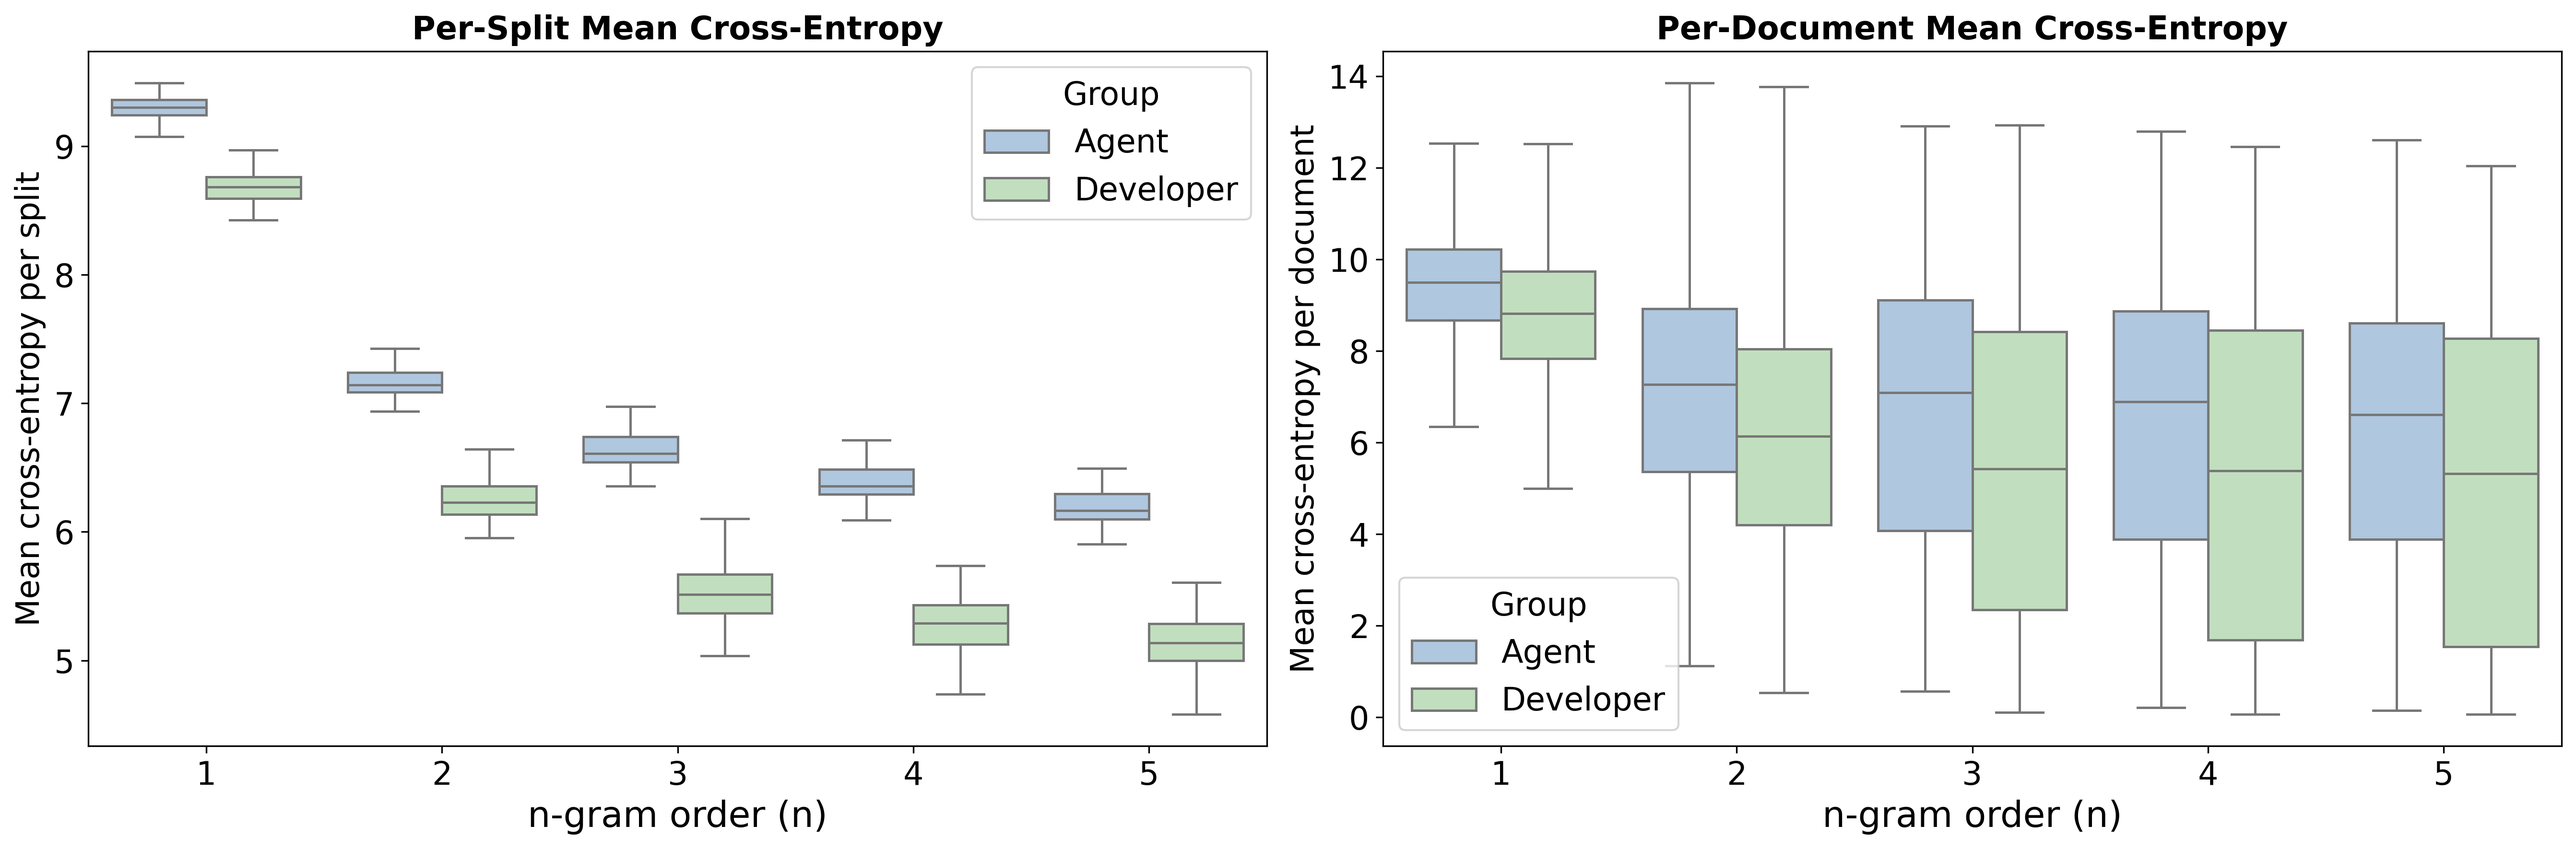
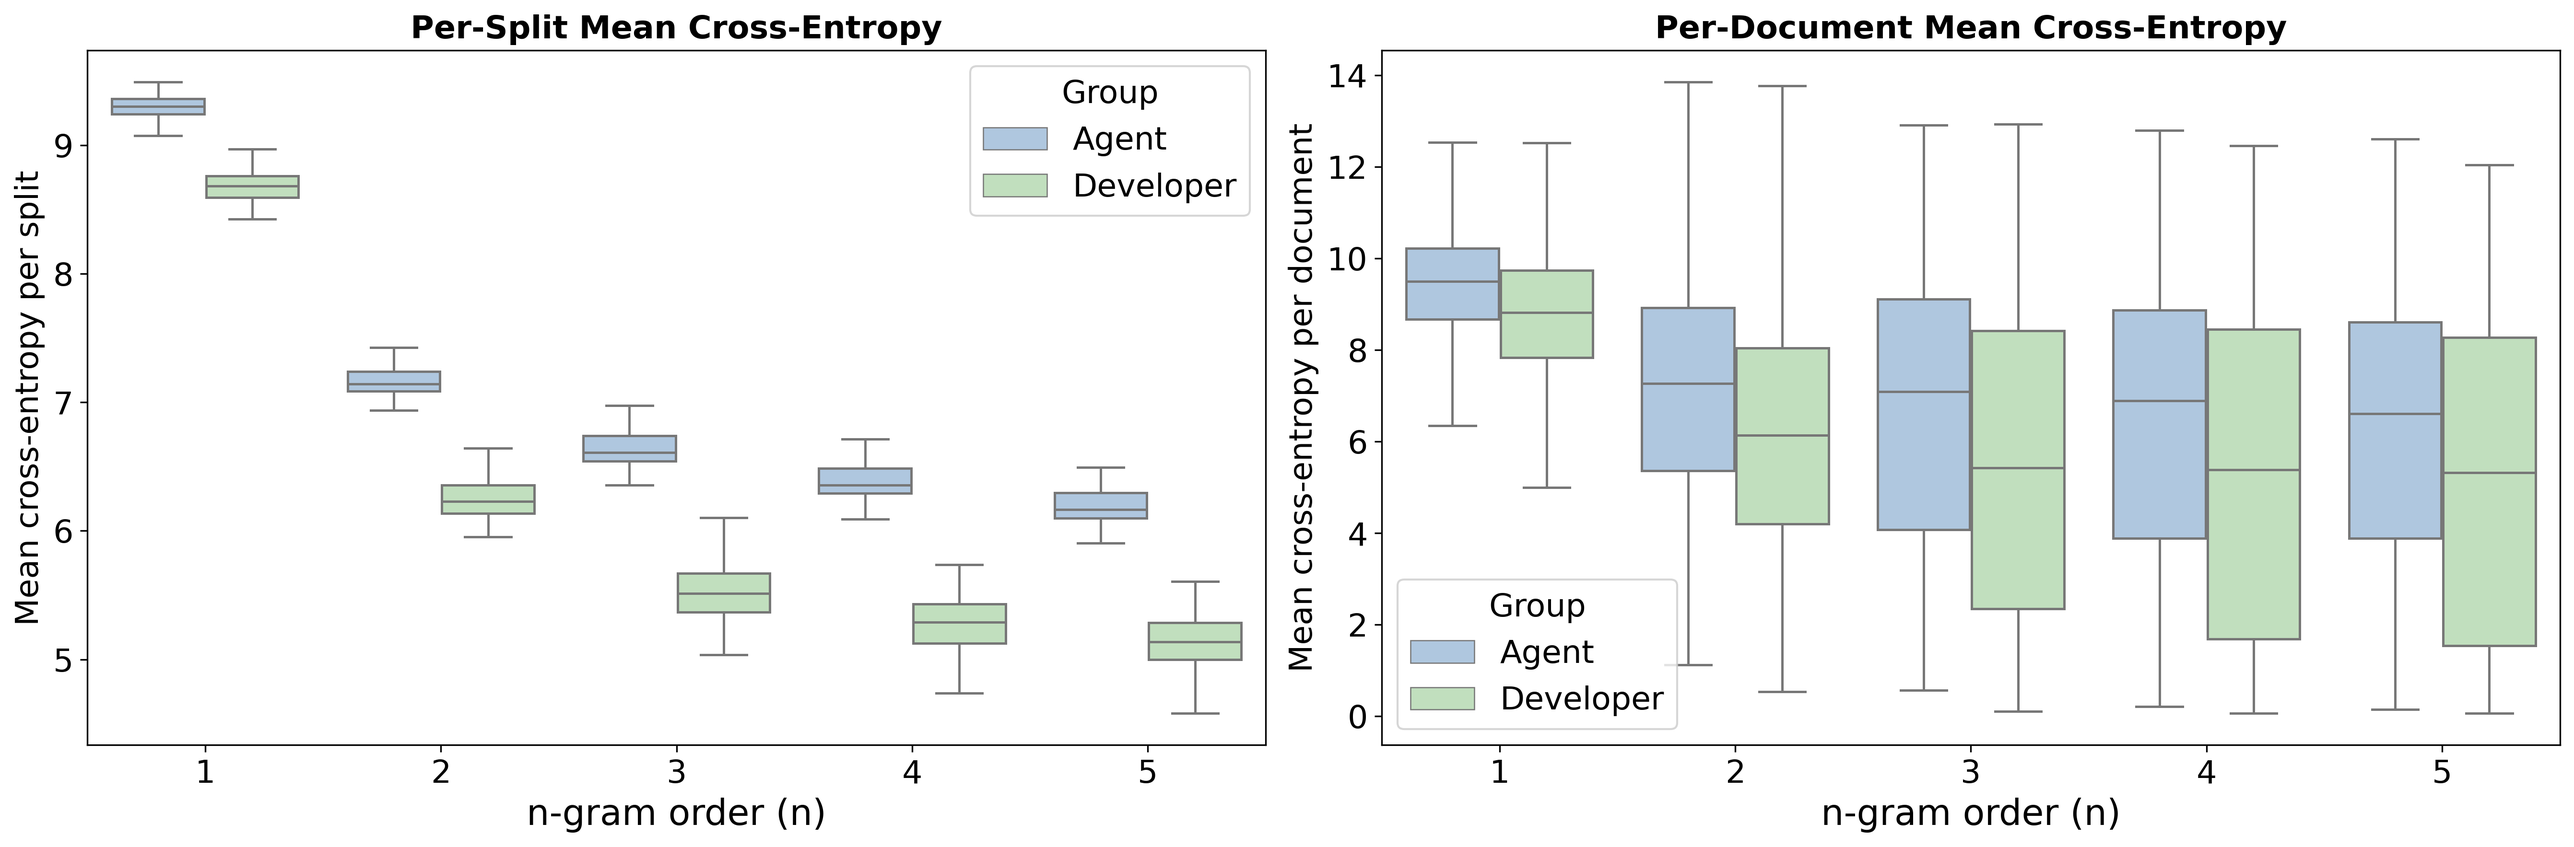
Small updates

diff --git a/README.md b/README.md
@@ -25,7 +25,7 @@ Key files in `dataset/data/`:
 - `final_dataset_new_corrected.csv` — the primary, cleaned dataset used by notebooks.
 - `final_dataset_new.csv` — the dataset prior to clean (input to `combine.ipynb`).
 - `agent_final_dataset_subset_b.csv` / `dev_final_dataset_subset_b.csv` — raw per-agent / per-human mining output from `build.py`.
-- `new_agent_dataset.csv`, `new_agent_pr_list.parquet`, `human_baseline_2021.parquet`, `all_pull_request.parquet`, `all_pull_request_ballanced.parquet` — intermediate PR pools used while building the corpus.
+- `new_agent_dataset.csv`, `new_agent_pr_list.parquet`, `human_baseline_2021.parquet`, `all_pull_request.parquet`, `all_pull_request_ballanced.parquet` — intermediate PR pools used while building the corpus. 200 prs for each agent.
 - `all_pull_request.parquet` — aidev dataset, `all_pull_request_ballanced.parquet`, is the subset or prs made by us
 ### Analysis
 
